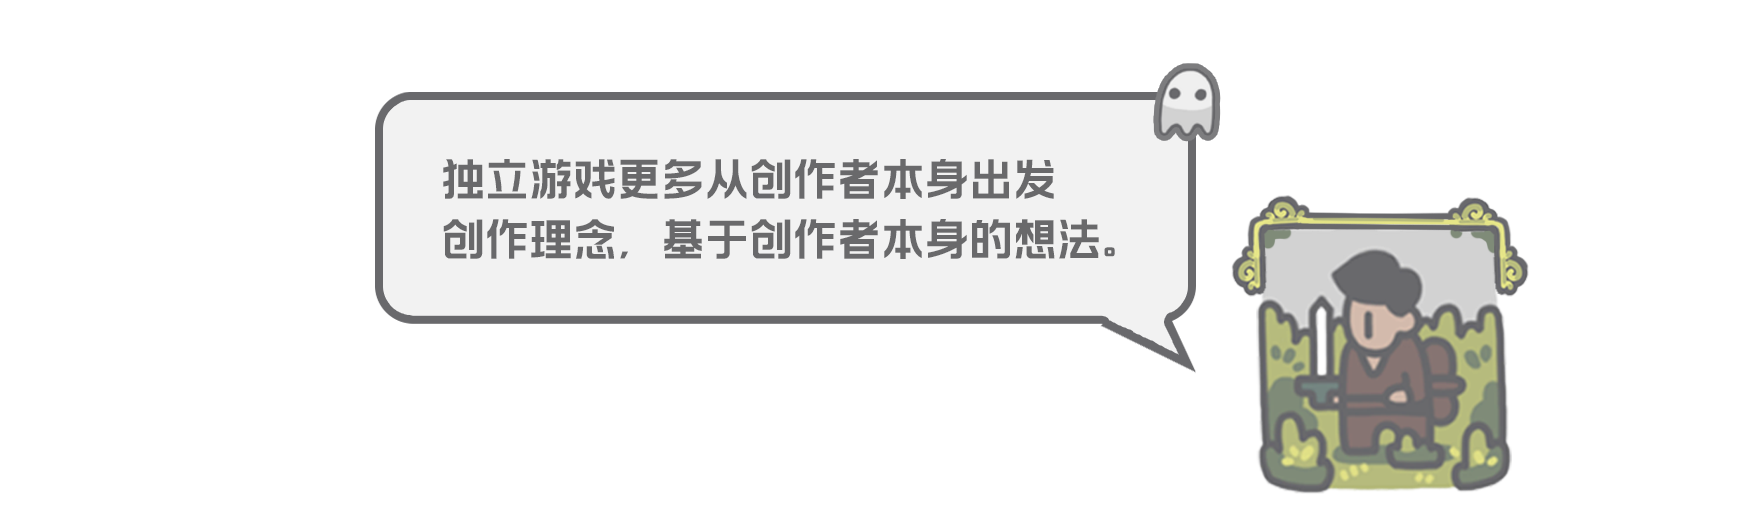
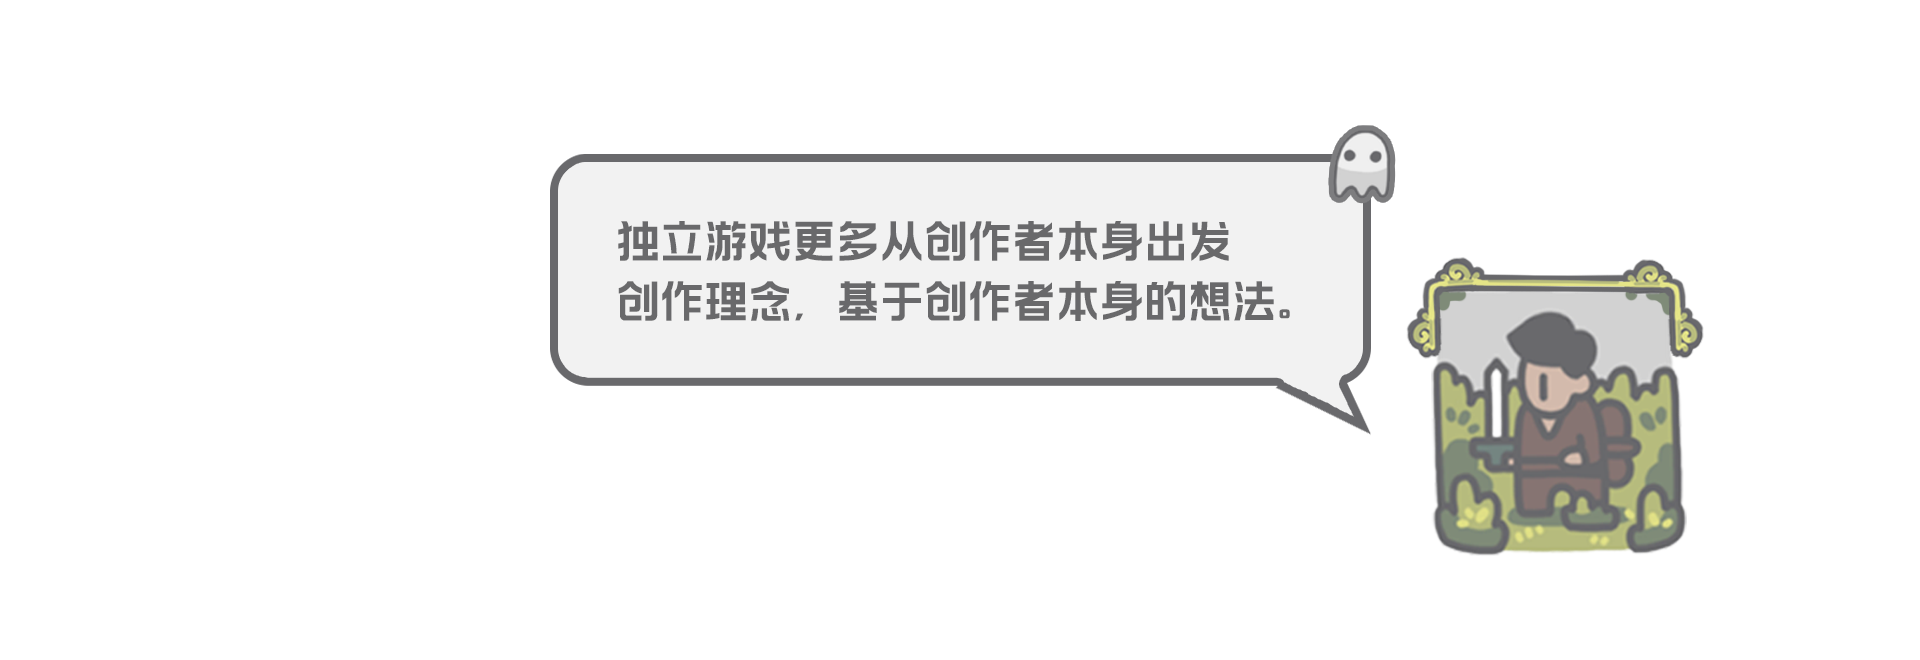
1
1

Changed region(s): [[0.2166, 0.121, 0.8974, 0.9376]]

diff --git a/INDIEGAMEDEVELOPER3/indiedeveloper.html b/INDIEGAMEDEVELOPER3/indiedeveloper.html
@@ -329,7 +329,7 @@
 
       .dialogue-pics-left {
         max-width: 1000px;
-        margin: 0px auto 0;
+        margin: -130px auto ;
         display: flex;
         justify-content: flex-start;
       }
@@ -338,7 +338,7 @@
       }
       .dialogue-pics-right {
         max-width: 1000px;
-        margin: 0px auto 0;
+        margin: -130px auto ;
         display: flex;
         justify-content: flex-end;
       }
@@ -424,7 +424,7 @@
       </div>
     </div>
 
-    <div class="chapter-content" style="text-align: center">
+    <div class="chapter-content" style="text-align: center; margin-bottom: 200px;" >
       <p>提起游戏，</p>
       <p>大多数人第一时间想到的就是——娱乐，</p>
       <p>轰轰烈烈、冲突激荡，让人肾上腺素飚增的娱乐。</p>
@@ -438,7 +438,7 @@
       <img src="images/duihua11.png" alt="" />
     </div>
     <div class="dialogue-pics-right" data-aos="fade-up">
-      <img src="images/duihua222.png" width="70%" alt="" />
+      <img src="images/duihua22.png" width="70%" alt="" />
     </div>
     <div class="dialogue-pics-left" data-aos="fade-up">
       <img src="images/duihua33.png" alt="" />
@@ -447,7 +447,7 @@
       <img src="images/duihua44.png" alt="" />
     </div>
     <div class="chapter-content">
-      <div class="introduction">
+      <div class="introduction" style="margin-top: 200px;">
         <p>在这个 3A 游戏大作成本水涨船高的时代，</p>
         <p>独立游戏另辟蹊径，</p>
         <p>近年来佳作频出：</p>
@@ -474,6 +474,13 @@
     <br />
     <br />
     <br />
+    <img
+        src="images/上.png"
+        width="120%"
+        style="margin-left: -10%; margin-bottom: -1013px;"
+        alt=""
+      />
+
 
     <div class="chapter-cover chapter-cover2" id="chapter-cover2"></div>
     <div class="chapter-content">
@@ -965,9 +972,8 @@
       <img src="images/upzhu.png" width="150%" style="margin-left: -23%" />
       <br />
       <p data-aos="fade-up">
-        但这种宣传有时也很简单，制作人亚恒提到
-        <span style="color: #b7ba84"
-          >“其实你去拜托，只要你的游戏够好，大家都是会去帮你的，都是免费的，国内大家对独立游戏还是比较热心的。”</span
+        但这种宣传有时也很简单，制作人亚恒提到<span style="color: #b7ba84"
+    >“其实你去拜托，只要你的游戏够好，大家都是会去帮你的，都是免费的，国内大家对独立游戏还是比较热心的。”</span
         >他的游戏《拣爱》在今年年初爆火，打动了不少人。尤其是B站头部UP主“中国BOY”专门为《拣爱》做了一期视频，很快就提升了游戏销量。但在游戏发售前，亚恒不太有自信的向兼职帮忙的其他开发人员保证“游戏肯定至少卖5000份”，实际上心里在打退堂鼓，“能卖2000份就够了”。现实情况是，《拣爱》上线三周，销量就已经突破了一万份。
       </p>
       <br />

diff --git a/INDIEGAMEDEVELOPER3/css/game.css b/INDIEGAMEDEVELOPER3/css/game.css
@@ -20,7 +20,7 @@
 }
 
 .swiper-slide {
-  font-size: 8px;
+  font-size: 20px;
   color: #d2d2d2;
   box-sizing: border-box;
   position: relative;
